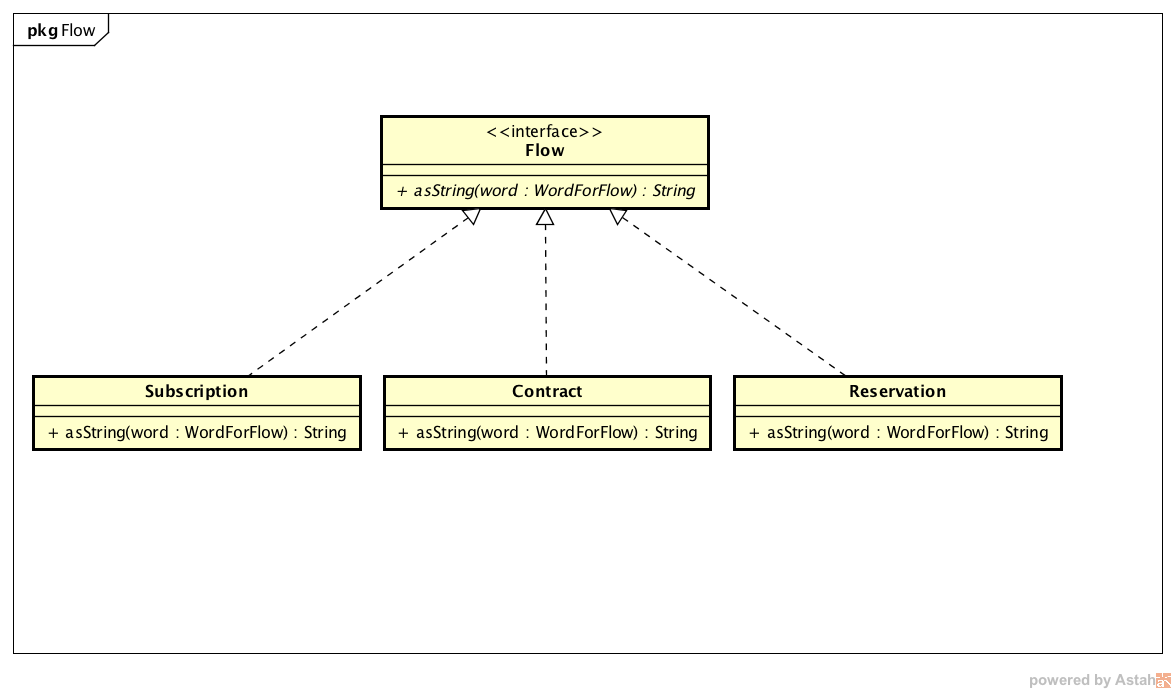
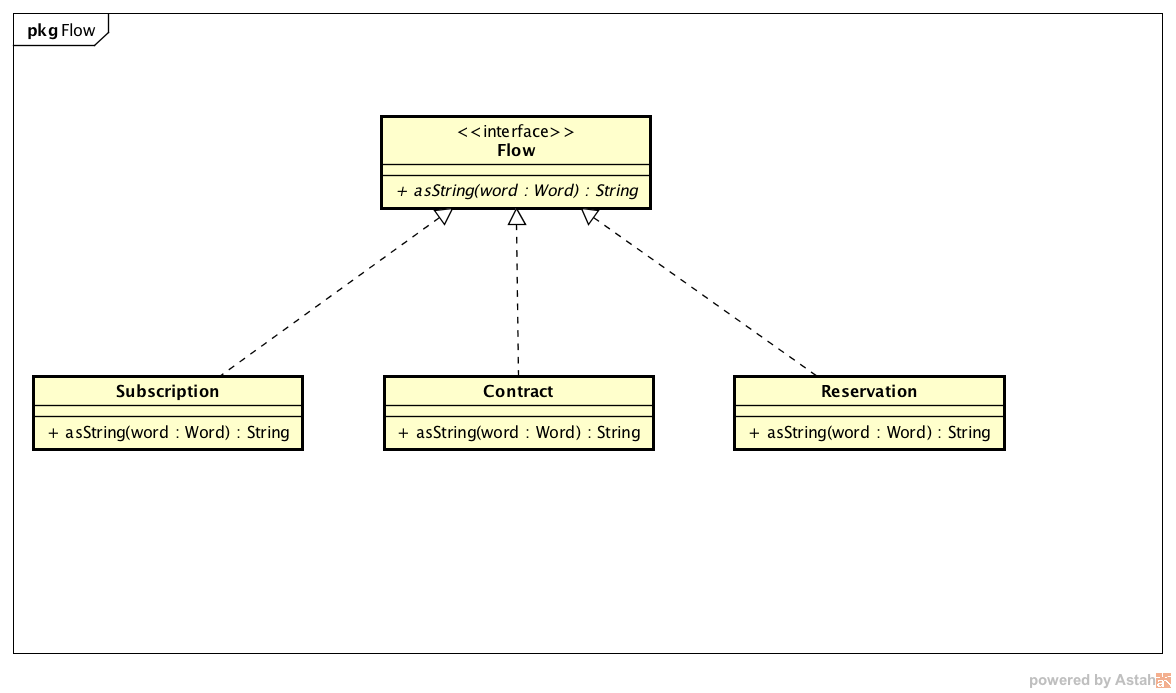
[tearFlowTypeDown] Better Naming added

diff --git a/tearFlowTypeDown/src/test/java/TestReservationSubtitle.java b/tearFlowTypeDown/src/test/java/TestReservationSubtitle.java
@@ -10,56 +10,56 @@ public class TestReservationSubtitle {
     @Test
     public void testModealTitleFlowSubscriptions() {
         Flow flow = new FlowFactory().flowType("S");
-        WordForFlow modalTitle = new ModalTitle();
+        Word modalTitle = new AnotherWording();
 
-        assertEquals(flow.asString2(modalTitle), "Titulo de modal para contract");
+        assertEquals(flow.asString(modalTitle), "Titulo de modal para contract");
     }
 
     @Test
     public void testModealTitleFlowDefault() {
         Flow flow = new FlowFactory().flowType("");
-        WordForFlow modalTitle = new ModalTitle();
+        Word modalTitle = new AnotherWording();
 
-        assertEquals(flow.asString2(modalTitle), "Titulo de modal para contract");
+        assertEquals(flow.asString(modalTitle), "Titulo de modal para contract");
     }
 
     @Test
     public void testModealTitleFlowReservation() {
         Flow flow = new FlowFactory().flowType("R");
-        WordForFlow modalTitle = new ModalTitle();
+        Word modalTitle = new AnotherWording();
 
-        assertEquals(flow.asString2(modalTitle), "Titulo de modal para reservation");
+        assertEquals(flow.asString(modalTitle), "Titulo de modal para reservation");
     }
 
     @Test
     public void testSubtitleGetReadyToPayFlowDefault() {
         Flow flow = new FlowFactory().flowType("C");
-        GetReadyToPay title = new GetReadyToPay();
+        WordingXXX title = new WordingXXX();
 
-        assertEquals(flow.asString2(title), "Preparando todo para tu pago");
+        assertEquals(flow.asString(title), "Preparando todo para tu pago");
     }
 
     @Test
     public void testSubtitleGetReadyToPayFlowReservation() {
         Flow flow = new FlowFactory().flowType("R");
-        GetReadyToPay title = new GetReadyToPay();
+        WordingXXX title = new WordingXXX();
 
-        assertEquals(flow.asString2(title), "Preparando  todo para tu reserva");
+        assertEquals(flow.asString(title), "Preparando  todo para tu reserva");
     }
 
     @Test
     public void testSubtitleGetReadyToPayFlowSubscriptions() {
         Flow flow = new FlowFactory().flowType("S");
-        GetReadyToPay title = new GetReadyToPay();
+        WordingXXX title = new WordingXXX();
 
-        assertEquals(flow.asString2(title), "XXXXX");
+        assertEquals(flow.asString(title), "XXXXX");
     }
 
     @Test
     public void testQueseYouFlowSubscriptions() {
         Flow flow = new FlowFactory().flowType("S");
-        WordForFlow title = new QueSeYou();
+        Word title = new EvenOneMoreWording();
 
-        assertEquals(flow.asString2(title), "Que se you");
+        assertEquals(flow.asString(title), "Que se you");
     }
 }

diff --git a/tearFlowTypeDown/src/main/java/entities/AnotherWording.java b/tearFlowTypeDown/src/main/java/entities/AnotherWording.java
@@ -2,21 +2,21 @@ package entities;
 
 import entities.flow.ContractFlow;
 import entities.flow.ReservationFlow;
+import entities.flow.SubscriptionFlow;
 
-public class
-implements WordForFlow {
+public class AnotherWording implements Word {
     @Override
-    public String asString2(ContractFlow flow) {
+    public String asString(ContractFlow flow) {
         return "Titulo de modal para contract";
     }
 
     @Override
-    public String asString2(ReservationFlow flow) {
+    public String asString(ReservationFlow flow) {
         return "Titulo de modal para reservation";
     }
 
     @Override
-    public String asString2(Subscription flow) {
+    public String asString(SubscriptionFlow flow) {
         return "Titulo de modal para contract";
     }
 }

diff --git a/tearFlowTypeDown/src/main/java/entities/WordingXXX.java b/tearFlowTypeDown/src/main/java/entities/WordingXXX.java
@@ -2,20 +2,21 @@ package entities;
 
 import entities.flow.ContractFlow;
 import entities.flow.ReservationFlow;
+import entities.flow.SubscriptionFlow;
 
-public class GetReadyToPay implements WordForFlow {
+public class WordingXXX implements Word {
     @Override
-    public String asString2(ContractFlow flow) {
+    public String asString(ContractFlow flow) {
         return "Preparando todo para tu pago";
     }
 
     @Override
-    public String asString2(ReservationFlow flow) {
+    public String asString(ReservationFlow flow) {
         return "Preparando  todo para tu reserva";
     }
 
     @Override
-    public String asString2(Subscription flow) {
+    public String asString(SubscriptionFlow flow) {
         return "XXXXX";
     }
 }

diff --git a/tearFlowTypeDown/src/main/java/entities/EvenOneMoreWording.java b/tearFlowTypeDown/src/main/java/entities/EvenOneMoreWording.java
@@ -1,0 +1,22 @@
+package entities;
+
+import entities.flow.ContractFlow;
+import entities.flow.ReservationFlow;
+import entities.flow.SubscriptionFlow;
+
+public class EvenOneMoreWording implements Word {
+    @Override
+    public String asString(ContractFlow flow) {
+        return "agregar wording";
+    }
+
+    @Override
+    public String asString(ReservationFlow flow) {
+        return "agregar wording";
+    }
+
+    @Override
+    public String asString(SubscriptionFlow flow) {
+        return "Que se you";
+    }
+}

diff --git a/tearFlowTypeDown/src/main/java/entities/flow/FlowFactory.java b/tearFlowTypeDown/src/main/java/entities/flow/FlowFactory.java
@@ -1,7 +1,5 @@
 package entities.flow;
 
-import entities.Subscription;
-
 public class FlowFactory {
 
     public Flow flowType(String flowType) {
@@ -14,7 +12,7 @@ public class FlowFactory {
                 result = new ContractFlow();
             break;
             case "S":
-                result = new Subscription();
+                result = new SubscriptionFlow();
             break;
             default:
                 result = new ContractFlow();

diff --git a/tearFlowTypeDown/src/main/java/entities/flow/ContractFlow.java b/tearFlowTypeDown/src/main/java/entities/flow/ContractFlow.java
@@ -1,10 +1,10 @@
 package entities.flow;
 
-import entities.WordForFlow;
+import entities.Word;
 
 public class ContractFlow implements Flow {
     @Override
-    public String asString2(WordForFlow modalTitle) {
-        return modalTitle.asString2(this);
+    public String asString(Word w) {
+        return w.asString(this);
     }
 }

diff --git a/tearFlowTypeDown/src/main/java/entities/Word.java b/tearFlowTypeDown/src/main/java/entities/Word.java
@@ -1,0 +1,11 @@
+package entities;
+
+import entities.flow.ContractFlow;
+import entities.flow.ReservationFlow;
+import entities.flow.SubscriptionFlow;
+
+public interface Word {
+    String asString(ContractFlow flow);
+    String asString(ReservationFlow flow);
+    String asString(SubscriptionFlow flow);
+}

diff --git a/tearFlowTypeDown/src/main/java/entities/flow/SubscriptionFlow.java b/tearFlowTypeDown/src/main/java/entities/flow/SubscriptionFlow.java
@@ -1,10 +1,12 @@
 package entities.flow;
 
 import entities.Word;
+import entities.flow.Flow;
 
-public class ReservationFlow implements Flow {
+public class SubscriptionFlow implements Flow {
     @Override
     public String asString(Word w) {
         return w.asString(this);
     }
+
 }

diff --git a/tearFlowTypeDown/src/main/java/entities/flow/Flow.java b/tearFlowTypeDown/src/main/java/entities/flow/Flow.java
@@ -1,7 +1,7 @@
 package entities.flow;
 
-import entities.WordForFlow;
+import entities.Word;
 
 public interface Flow {
-    String asString2(WordForFlow word);
+    String asString(Word word);
 }
